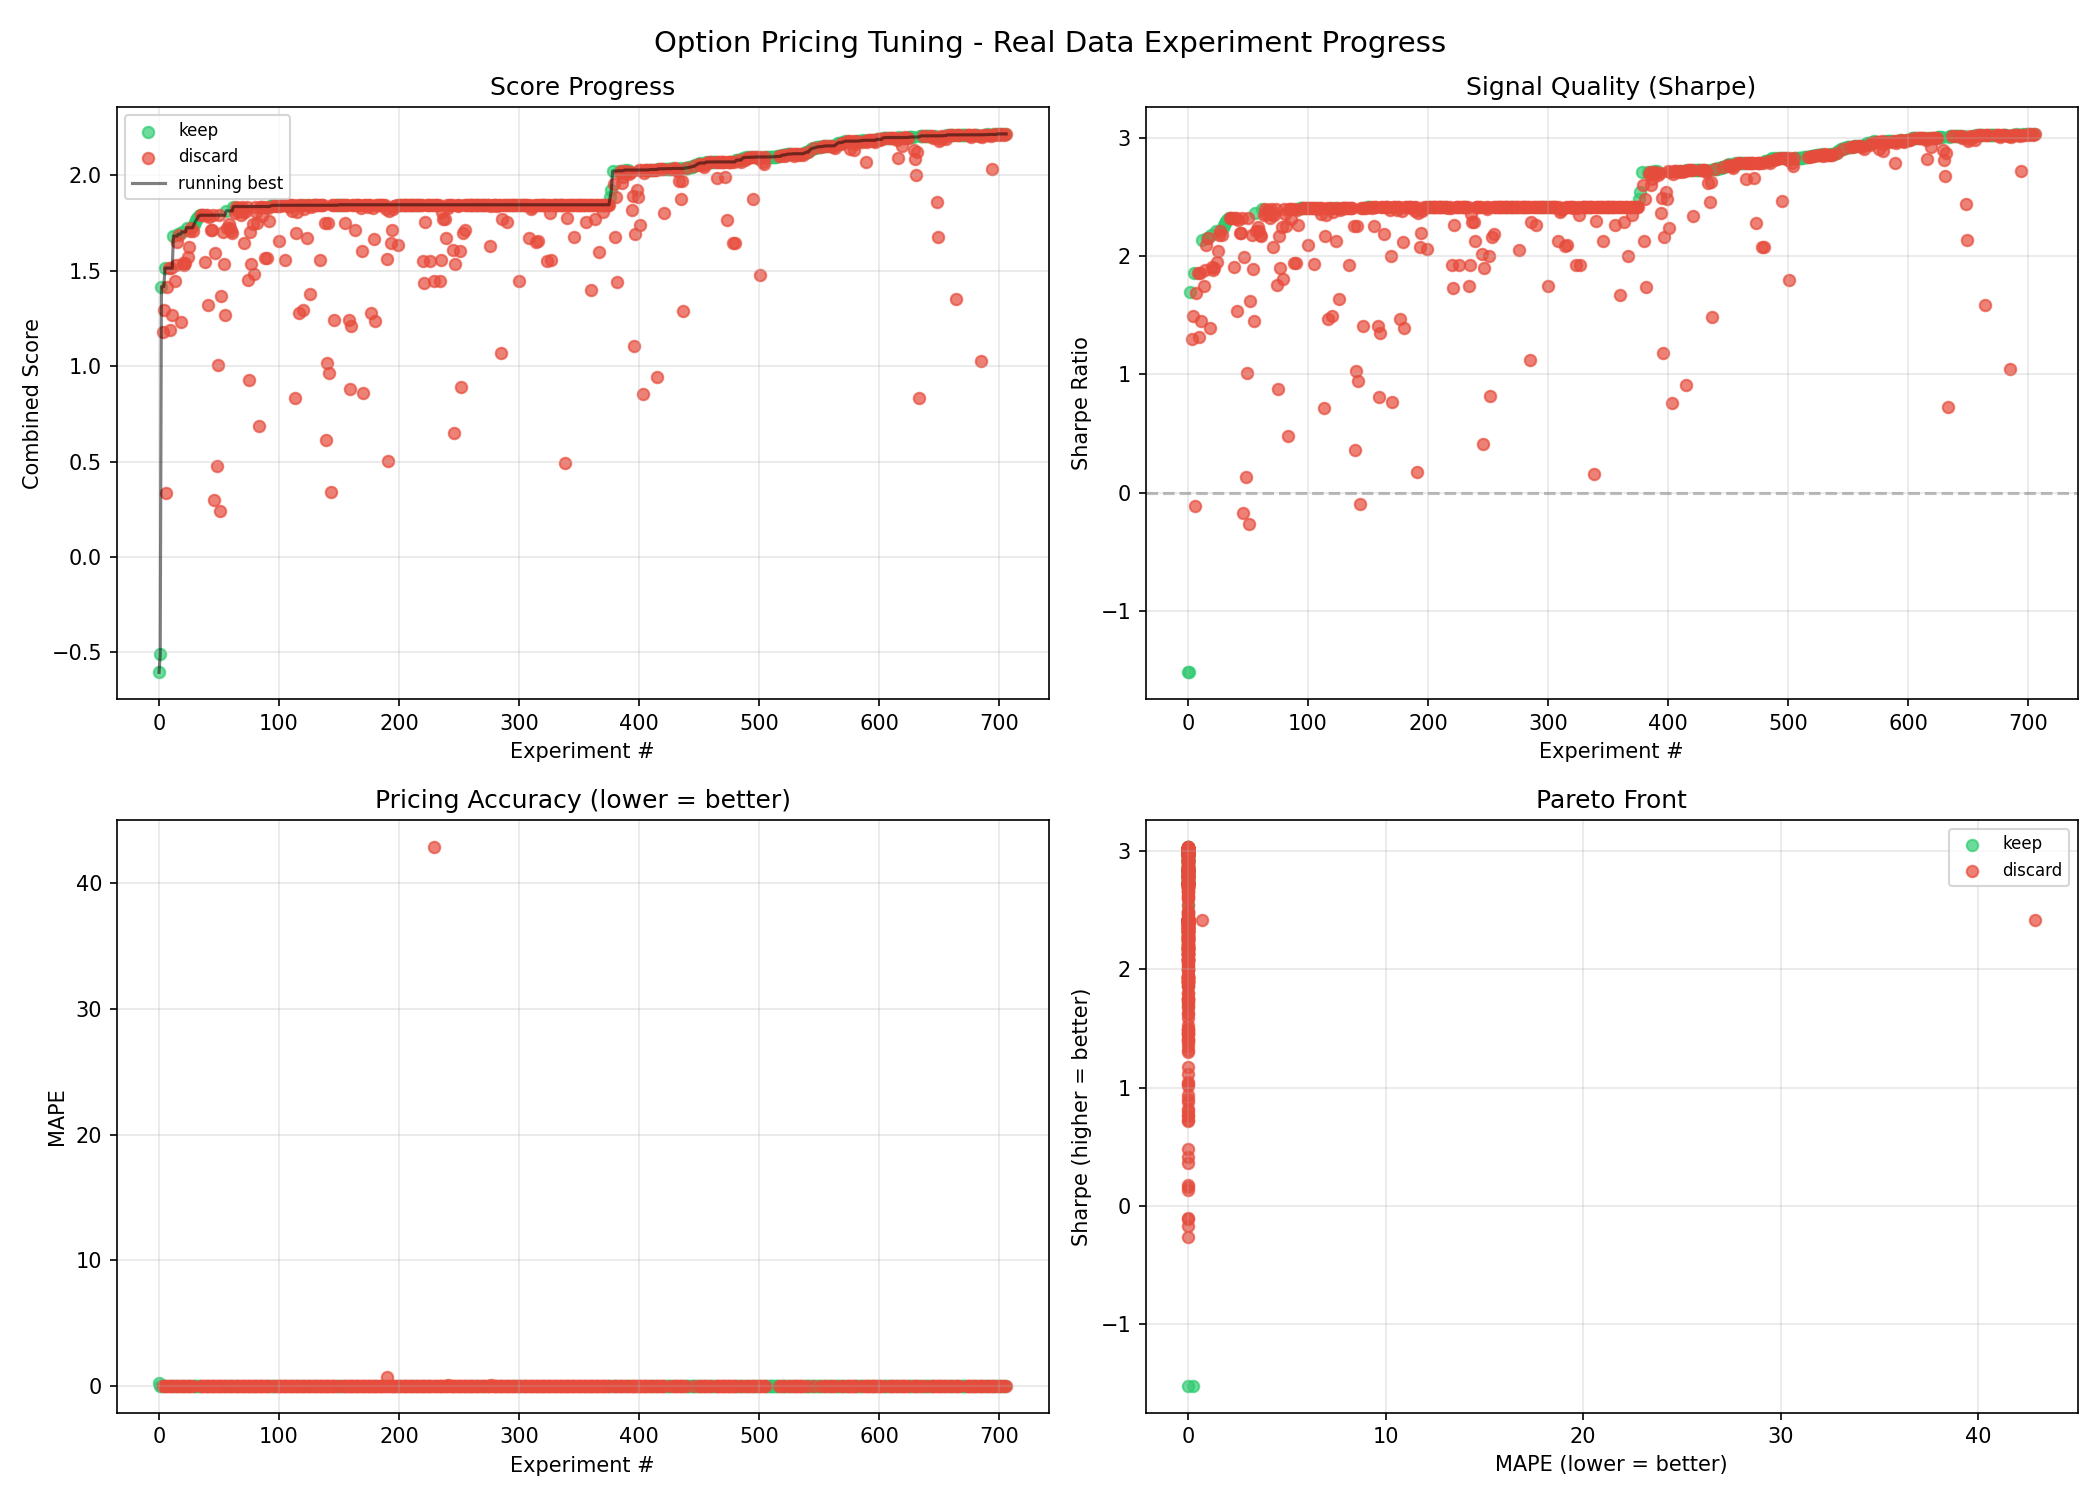
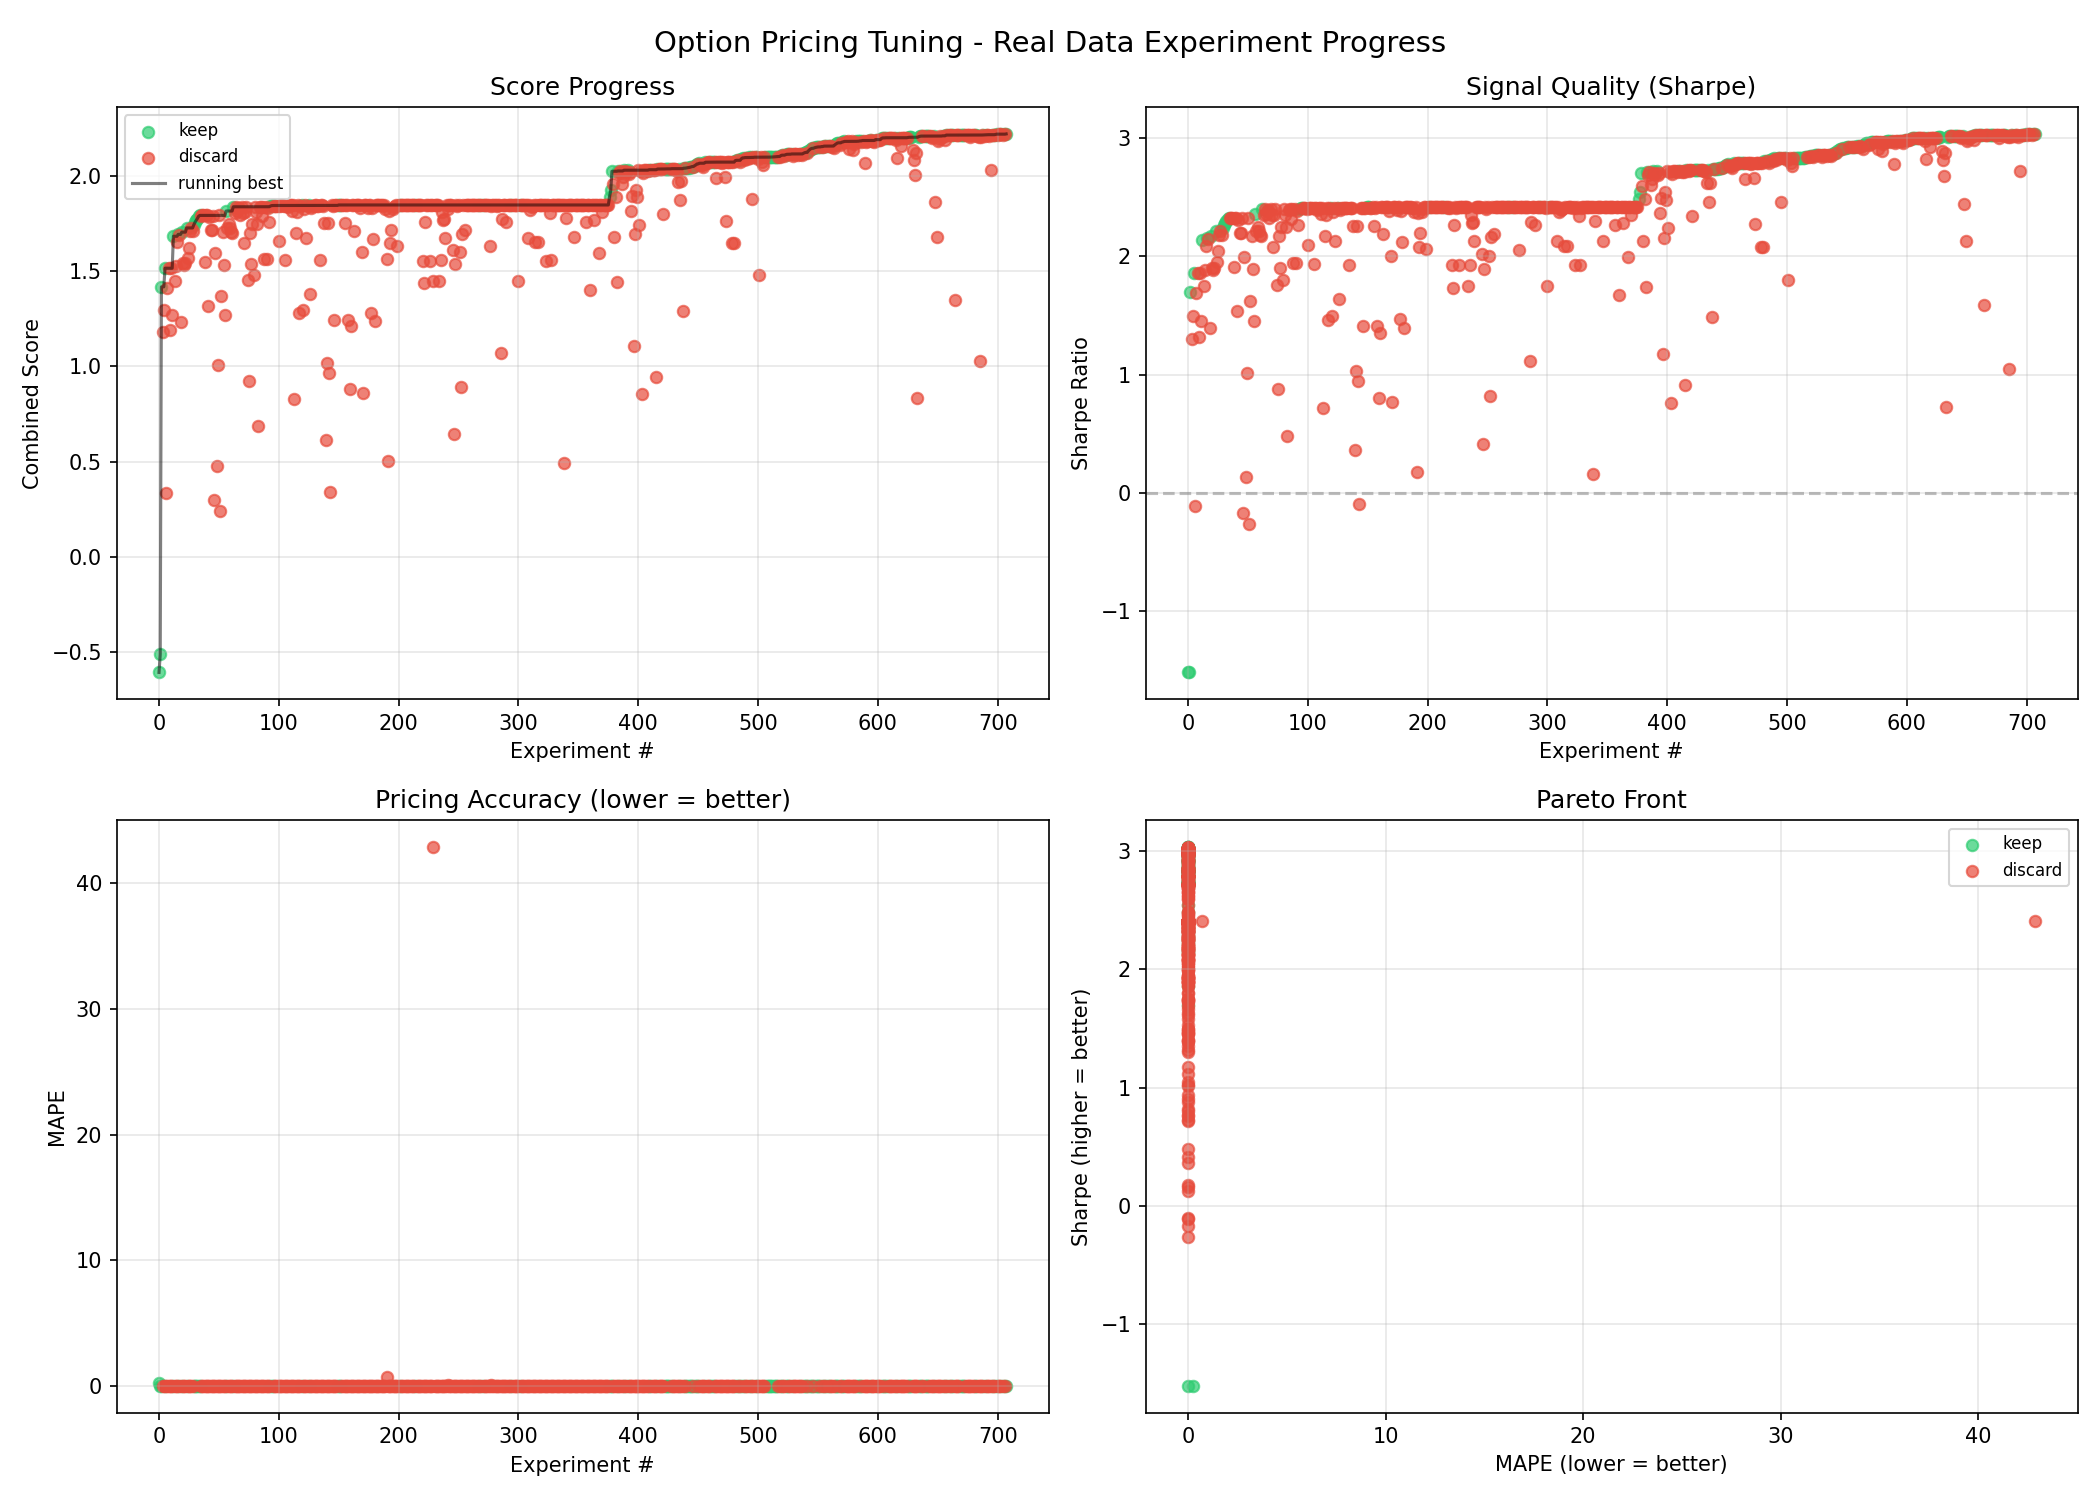
log exp708

diff --git a/README.md b/README.md
@@ -9,12 +9,12 @@ signals using **real stock market data** from Yahoo Finance.
 
 | Metric | Value |
 |---|---|
-| Combined Score | 2.2180 |
-| Sharpe Ratio | 3.0313 |
+| Combined Score | 2.2192 |
+| Sharpe Ratio | 3.0333 |
 | MAPE | 0.002003 |
 | Win Rate | 86.2% |
 | Trades | 29 |
-| Experiments | 707 (159 kept) |
+| Experiments | 708 (160 kept) |
 
 ## How It Works
 
